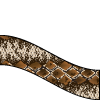
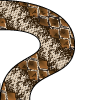
Update graphics and build out corner logic. Create makeCorner function out of isCorner conditional.

diff --git a/css/style.min.css b/css/style.min.css
@@ -1,1 +1,1 @@
-#legend .game_controller button .fa,header{font-size:2rem}*{outline:0}:root{background:#000;color:#fff;font-family:Arial}body{background-color:transparent}header{color:#fff;padding:4px}header .game_buttons{text-align:right}header .game_buttons button{border-radius:100%;height:75px;width:75px;margin:0 0 0 .5rem;padding:0;vertical-align:top;border:none}section{padding:0 20px}.right{-o-transform:rotate(90deg);-ms-transform:rotate(90deg);-webkit-transform:rotate(90deg);transform:rotate(90deg)}.right.flip{-moz-transform:scaleY(-1) rotate(90deg);-o-transform:scaleY(-1) rotate(90deg);-webkit-transform:scaleY(-1) rotate(90deg);transform:scaleY(-1) rotate(90deg);filter:FlipV;-ms-filter:"FlipV"}.down{-o-transform:rotate(180deg);-ms-transform:rotate(180deg);-webkit-transform:rotate(180deg);transform:rotate(180deg)}.down.flip{-moz-transform:scaleX(-1) rotate(180deg);-o-transform:scaleX(-1) rotate(180deg);-webkit-transform:scaleX(-1) rotate(180deg);transform:scaleX(-1) rotate(180deg);filter:FlipH;-ms-filter:"FlipH"}.left{-o-transform:rotate(-90deg);-ms-transform:rotate(-90deg);-webkit-transform:rotate(-90deg);transform:rotate(-90deg)}.left.flip{-moz-transform:scaleY(-1) rotate(-90deg);-o-transform:scaleY(-1) rotate(-90deg);-webkit-transform:scaleY(-1) rotate(-90deg);transform:scaleY(-1) rotate(-90deg);filter:FlipV;-ms-filter:"FlipV"}.up{-o-transform:rotate(0);-ms-transform:rotate(0);-webkit-transform:rotate(0);transform:rotate(0)}.up.flip{-moz-transform:scaleX(-1) rotate(0);-o-transform:scaleX(-1) rotate(0);-webkit-transform:scaleX(-1) rotate(0);transform:scaleX(-1) rotate(0);filter:FlipH;-ms-filter:"FlipH"}.board{box-sizing:content-box;background:green;width:100%;max-width:500px;border:3px double #fff;margin:auto;padding:0}.board .quadrant{box-sizing:border-box;width:4%;height:4%;float:left;margin:0;padding:0;background-size:cover}.board .snake{background:orange;background-size:cover!important}.board .snake.snake-head{background:url(../images/snake-graphics_02.png)}.board .snake.snake-body-1{background:url(../images/snake-graphics_04.png)}.board .snake.snake-body-main{background:url(../images/snake-graphics_07.png)}.board .snake.snake-tail{background:url(../images/snake-graphics_10.png)}.board .snake.snake-corner.main{background:url(../images/snake-graphics_05.png)}.board .snake.snake-corner.out{background:url(../images/snake-graphics_08.png)}.board .snake.snake-corner.tail{background:url(../images/snake-graphics_07.png)}.board .fruit{background:red;border-radius:100%}#legend .game_controller{padding:2rem}#legend .game_controller button{background:#fff;border-radius:10px}#legend .game_controller #down:active,#legend .game_controller #left:active,#legend .game_controller #right:active,#legend .game_controller #up:active,#legend .game_controller .pressed{border-style:inset;background:#D9534F;color:#fff}@media screen and (min-width:768px){.game_buttons button{width:100%;max-width:300px}}@media screen and (max-width:768px){header{font-size:1rem}header .game_buttons button{height:40px;width:40px;border-radius:100%}.game_controller button{height:5rem}}.hidden,ui-loader{display:none}
+#legend .game_controller button .fa,header{font-size:2rem}*{outline:0}:root{background:#000;color:#fff;font-family:Arial}body{background-color:transparent}header{color:#fff;padding:4px}header .game_buttons{text-align:right}header .game_buttons button{border-radius:100%;height:75px;width:75px;margin:0 0 0 .5rem;padding:0;vertical-align:top;border:none}section{padding:0 20px}.flipV{-moz-transform:scaleX(-1);-o-transform:scaleX(-1);-webkit-transform:scaleX(-1);transform:scaleX(-1);filter:FlipV;-ms-filter:"FlipV"}.flipH{-moz-transform:scaleY(-1);-o-transform:scaleY(-1);-webkit-transform:scaleY(-1);transform:scaleY(-1);filter:FlipH;-ms-filter:"FlipH"}.direction.right{-o-transform:rotate(90deg);-ms-transform:rotate(90deg);-webkit-transform:rotate(90deg);transform:rotate(90deg)}.direction.right.flip{-moz-transform:scaleY(-1) rotate(90deg);-o-transform:scaleY(-1) rotate(90deg);-webkit-transform:scaleY(-1) rotate(90deg);transform:scaleY(-1) rotate(90deg);filter:FlipH;-ms-filter:"FlipH"}.direction.down{-o-transform:rotate(180deg);-ms-transform:rotate(180deg);-webkit-transform:rotate(180deg);transform:rotate(180deg)}.direction.down.flip{-moz-transform:scaleX(-1) rotate(180deg);-o-transform:scaleX(-1) rotate(180deg);-webkit-transform:scaleX(-1) rotate(180deg);transform:scaleX(-1) rotate(180deg);filter:flipV;-ms-filter:"FlipV"}.direction.left{-o-transform:rotate(-90deg);-ms-transform:rotate(-90deg);-webkit-transform:rotate(-90deg);transform:rotate(-90deg)}.direction.left.flip{-moz-transform:scaleY(-1) rotate(-90deg);-o-transform:scaleY(-1) rotate(-90deg);-webkit-transform:scaleY(-1) rotate(-90deg);transform:scaleY(-1) rotate(-90deg);filter:FlipH;-ms-filter:"FlipH"}.direction.up{-o-transform:rotate(0);-ms-transform:rotate(0);-webkit-transform:rotate(0);transform:rotate(0)}.direction.up.flip{-moz-transform:scaleX(-1) rotate(0);-o-transform:scaleX(-1) rotate(0);-webkit-transform:scaleX(-1) rotate(0);transform:scaleX(-1) rotate(0);filter:flipV;-ms-filter:"FlipV"}.board{box-sizing:content-box;background:green;width:100%;max-width:500px;border:3px double #fff;margin:auto;padding:0}.board .quadrant{box-sizing:border-box;width:4%;height:4%;float:left;margin:0;padding:0;background-size:cover}.board .snake{background:orange;background-size:cover!important}.board .snake.snake-body-1{background:url(../images/snake-graphics_head-2.png)}.board .snake.snake-body-1.right{-o-transform:rotate(90deg);-ms-transform:rotate(90deg);-webkit-transform:rotate(90deg);transform:rotate(90deg)}.board .snake.snake-body-1.right.flip{-moz-transform:scaleY(-1) rotate(90deg);-o-transform:scaleY(-1) rotate(90deg);-webkit-transform:scaleY(-1) rotate(90deg);transform:scaleY(-1) rotate(90deg);filter:FlipH;-ms-filter:"FlipH"}.board .snake.snake-body-1.down{-o-transform:rotate(180deg);-ms-transform:rotate(180deg);-webkit-transform:rotate(180deg);transform:rotate(180deg)}.board .snake.snake-body-1.down.flip{-moz-transform:scaleX(-1) rotate(180deg);-o-transform:scaleX(-1) rotate(180deg);-webkit-transform:scaleX(-1) rotate(180deg);transform:scaleX(-1) rotate(180deg);filter:flipV;-ms-filter:"FlipV"}.board .snake.snake-body-1.left{-o-transform:rotate(-90deg);-ms-transform:rotate(-90deg);-webkit-transform:rotate(-90deg);transform:rotate(-90deg)}.board .snake.snake-body-1.left.flip{-moz-transform:scaleY(-1) rotate(-90deg);-o-transform:scaleY(-1) rotate(-90deg);-webkit-transform:scaleY(-1) rotate(-90deg);transform:scaleY(-1) rotate(-90deg);filter:FlipH;-ms-filter:"FlipH"}.board .snake.snake-body-1.up{-o-transform:rotate(0);-ms-transform:rotate(0);-webkit-transform:rotate(0);transform:rotate(0)}.board .snake.snake-body-1.up.flip{-moz-transform:scaleX(-1) rotate(0);-o-transform:scaleX(-1) rotate(0);-webkit-transform:scaleX(-1) rotate(0);transform:scaleX(-1) rotate(0);filter:flipV;-ms-filter:"FlipV"}.board .snake.snake-body-main{background:url(../images/snake-graphics_mid.png)}.board .snake.snake-body-main.right{-o-transform:rotate(90deg);-ms-transform:rotate(90deg);-webkit-transform:rotate(90deg);transform:rotate(90deg)}.board .snake.snake-body-main.right.flip{-moz-transform:scaleY(-1) rotate(90deg);-o-transform:scaleY(-1) rotate(90deg);-webkit-transform:scaleY(-1) rotate(90deg);transform:scaleY(-1) rotate(90deg);filter:FlipH;-ms-filter:"FlipH"}.board .snake.snake-body-main.down{-o-transform:rotate(180deg);-ms-transform:rotate(180deg);-webkit-transform:rotate(180deg);transform:rotate(180deg)}.board .snake.snake-body-main.down.flip{-moz-transform:scaleX(-1) rotate(180deg);-o-transform:scaleX(-1) rotate(180deg);-webkit-transform:scaleX(-1) rotate(180deg);transform:scaleX(-1) rotate(180deg);filter:flipV;-ms-filter:"FlipV"}.board .snake.snake-body-main.left{-o-transform:rotate(-90deg);-ms-transform:rotate(-90deg);-webkit-transform:rotate(-90deg);transform:rotate(-90deg)}.board .snake.snake-body-main.left.flip{-moz-transform:scaleY(-1) rotate(-90deg);-o-transform:scaleY(-1) rotate(-90deg);-webkit-transform:scaleY(-1) rotate(-90deg);transform:scaleY(-1) rotate(-90deg);filter:FlipH;-ms-filter:"FlipH"}.board .snake.snake-body-main.up{-o-transform:rotate(0);-ms-transform:rotate(0);-webkit-transform:rotate(0);transform:rotate(0)}.board .snake.snake-body-main.up.flip{-moz-transform:scaleX(-1) rotate(0);-o-transform:scaleX(-1) rotate(0);-webkit-transform:scaleX(-1) rotate(0);transform:scaleX(-1) rotate(0);filter:flipV;-ms-filter:"FlipV"}.board .snake.snake-tail{background:url(../images/snake-graphics_tail.png)}.board .snake.snake-tail.right{-o-transform:rotate(90deg);-ms-transform:rotate(90deg);-webkit-transform:rotate(90deg);transform:rotate(90deg)}.board .snake.snake-tail.right.flip{-moz-transform:scaleY(-1) rotate(90deg);-o-transform:scaleY(-1) rotate(90deg);-webkit-transform:scaleY(-1) rotate(90deg);transform:scaleY(-1) rotate(90deg);filter:FlipH;-ms-filter:"FlipH"}.board .snake.snake-tail.down{-o-transform:rotate(180deg);-ms-transform:rotate(180deg);-webkit-transform:rotate(180deg);transform:rotate(180deg)}.board .snake.snake-tail.down.flip{-moz-transform:scaleX(-1) rotate(180deg);-o-transform:scaleX(-1) rotate(180deg);-webkit-transform:scaleX(-1) rotate(180deg);transform:scaleX(-1) rotate(180deg);filter:flipV;-ms-filter:"FlipV"}.board .snake.snake-tail.left{-o-transform:rotate(-90deg);-ms-transform:rotate(-90deg);-webkit-transform:rotate(-90deg);transform:rotate(-90deg)}.board .snake.snake-tail.left.flip{-moz-transform:scaleY(-1) rotate(-90deg);-o-transform:scaleY(-1) rotate(-90deg);-webkit-transform:scaleY(-1) rotate(-90deg);transform:scaleY(-1) rotate(-90deg);filter:FlipH;-ms-filter:"FlipH"}.board .snake.snake-tail.up{-o-transform:rotate(0);-ms-transform:rotate(0);-webkit-transform:rotate(0);transform:rotate(0)}.board .snake.snake-tail.up.flip{-moz-transform:scaleX(-1) rotate(0);-o-transform:scaleX(-1) rotate(0);-webkit-transform:scaleX(-1) rotate(0);transform:scaleX(-1) rotate(0);filter:flipV;-ms-filter:"FlipV"}.board .snake.snake-corner{background:url(../images/snake-graphics_corner-1.png)}.board .snake.snake-corner.left-corner{-o-transform:rotate(0);-ms-transform:rotate(0);-webkit-transform:rotate(0);transform:rotate(0)}.board .snake.snake-corner.left-corner.flip{-o-transform:rotate(-90deg);-ms-transform:rotate(-90deg);-webkit-transform:rotate(-90deg);transform:rotate(-90deg)}.board .snake.snake-corner.left-corner.flip.flip{-moz-transform:scaleX(-1) rotate(-90deg);-o-transform:scaleX(-1) rotate(-90deg);-webkit-transform:scaleX(-1) rotate(-90deg);transform:scaleX(-1) rotate(-90deg);filter:flipV;-ms-filter:"FlipV"}.board .snake.snake-corner.right-corner{-o-transform:rotate(-90deg);-ms-transform:rotate(-90deg);-webkit-transform:rotate(-90deg);transform:rotate(-90deg)}.board .snake.snake-corner.right-corner.flip{-moz-transform:scaleX(-1);-o-transform:scaleX(-1);-webkit-transform:scaleX(-1);transform:scaleX(-1);filter:FlipV;-ms-filter:"FlipV"}.board .snake.snake-corner.down-right-corner{-o-transform:rotate(180deg);-ms-transform:rotate(180deg);-webkit-transform:rotate(180deg);transform:rotate(180deg)}.board .snake.snake-corner.down-right-corner.flip{-o-transform:rotate(90deg);-ms-transform:rotate(90deg);-webkit-transform:rotate(90deg);transform:rotate(90deg)}.board .snake.snake-corner.down-right-corner.flip.flip{-moz-transform:scaleX(-1) rotate(90deg);-o-transform:scaleX(-1) rotate(90deg);-webkit-transform:scaleX(-1) rotate(90deg);transform:scaleX(-1) rotate(90deg);filter:flipV;-ms-filter:"FlipV"}.board .snake.snake-corner.down-left-corner{-o-transform:rotate(90deg);-ms-transform:rotate(90deg);-webkit-transform:rotate(90deg);transform:rotate(90deg)}.board .snake.snake-corner.down-left-corner.flip{-moz-transform:scaleY(-1);-o-transform:scaleY(-1);-webkit-transform:scaleY(-1);transform:scaleY(-1);filter:FlipH;-ms-filter:"FlipH"}.board .snake.snake-head{background:url(../images/snake-graphics_head.png)}.board .snake.snake-head.right{-o-transform:rotate(90deg);-ms-transform:rotate(90deg);-webkit-transform:rotate(90deg);transform:rotate(90deg)}.board .snake.snake-head.right.flip{-moz-transform:scaleY(-1) rotate(90deg);-o-transform:scaleY(-1) rotate(90deg);-webkit-transform:scaleY(-1) rotate(90deg);transform:scaleY(-1) rotate(90deg);filter:FlipH;-ms-filter:"FlipH"}.board .snake.snake-head.down{-o-transform:rotate(180deg);-ms-transform:rotate(180deg);-webkit-transform:rotate(180deg);transform:rotate(180deg)}.board .snake.snake-head.down.flip{-moz-transform:scaleX(-1) rotate(180deg);-o-transform:scaleX(-1) rotate(180deg);-webkit-transform:scaleX(-1) rotate(180deg);transform:scaleX(-1) rotate(180deg);filter:flipV;-ms-filter:"FlipV"}.board .snake.snake-head.left{-o-transform:rotate(-90deg);-ms-transform:rotate(-90deg);-webkit-transform:rotate(-90deg);transform:rotate(-90deg)}.board .snake.snake-head.left.flip{-moz-transform:scaleY(-1) rotate(-90deg);-o-transform:scaleY(-1) rotate(-90deg);-webkit-transform:scaleY(-1) rotate(-90deg);transform:scaleY(-1) rotate(-90deg);filter:FlipH;-ms-filter:"FlipH"}.board .snake.snake-head.up{-o-transform:rotate(0);-ms-transform:rotate(0);-webkit-transform:rotate(0);transform:rotate(0)}.board .snake.snake-head.up.flip{-moz-transform:scaleX(-1) rotate(0);-o-transform:scaleX(-1) rotate(0);-webkit-transform:scaleX(-1) rotate(0);transform:scaleX(-1) rotate(0);filter:flipV;-ms-filter:"FlipV"}.board .snake.alternate-head,.board .snake.alternate-head.flip{background:url(../images/snake-graphics-turning-head.png)}.board .fruit{background:red;border-radius:100%}#legend .game_controller{padding:2rem}#legend .game_controller button{background:#fff;border-radius:10px}#legend .game_controller #down:active,#legend .game_controller #left:active,#legend .game_controller #right:active,#legend .game_controller #up:active,#legend .game_controller .pressed{border-style:inset;background:#D9534F;color:#fff}@media screen and (min-width:768px){.game_buttons button{width:100%;max-width:300px}}@media screen and (max-width:768px){header{font-size:1rem}header .game_buttons button{height:40px;width:40px;border-radius:100%}.game_controller button{height:5rem}}.hidden,ui-loader{display:none}

diff --git a/js/script.min.js b/js/script.min.js
@@ -1,4 +1,4 @@
 /*
- snake-game 2016-02-29 
+ snake-game 2016-03-08 
 */
-function quad(a){return $("[data-xcoord="+a[0]+"][data-ycoord="+a[1]+"]")}function makeFruits(){var a=Math.floor(Math.random()*(bd-1-0))+1,b=Math.floor(Math.random()*(bd-1-0))+1;quad([a,b]).addClass("fruit"),console.log("New Fruit: "+a+","+b)}function setup(){$(".board").html(""),$(".board").css("height",$(".board").width()),score=0,$("#score").text(score),paused=!0,direction="right",snake=[[~~(bd/2)-3,~~(bd/2)],[~~(bd/2)-2,~~(bd/2)],[~~(bd/2)-1,~~(bd/2)],[~~(bd/2),~~(bd/2)]],head=snake.length-1;for(var a=0;bd>a;a++)for(var b=0;bd>b;b++)$(".board").append('<div class="quadrant" data-xcoord="'+b+'" data-ycoord="'+a+'"></div>');makeFruits(),quad(snake[head]).addClass("snake snake-head").addClass(direction),quad(snake[head-1]).addClass("snake snake-body-1").addClass(direction),quad(snake[head-2]).addClass("snake snake-body-main").addClass(direction),quad(snake[0]).addClass("snake snake-tail").addClass(direction)}function pauseGame(){paused?(progress_snake(snake),$("#start_stop").text("Pause"),paused=!1):(paused=!0,$("#start_stop").text("Resume"))}function isOver(a){return quad(a).hasClass("snake")?(console.log("Over! Bit its tail! "+a),!0):a[0]>=bd||a[1]>=bd||a[0]<0||a[1]<0?(console.log("Over! Crashed into the wall! "+a),!0):!1}function growSnake(a){snake.push(a),head=snake.length-1}function isFruit(a){return quad(a).hasClass("fruit")?(score++,$("#score").text(score),!0):!1}function progress_snake(a){var b=a[head][0],c=a[head][1],d=[b,c];switch(direction){case"left":d[0]--;break;case"up":d[1]--;break;case"right":d[0]++;break;case"down":d[1]++}var e=setTimeout(function(){if(isOver(d))clearTimeout(e);else{if(isFruit(d))quad(d).removeClass("fruit"),makeFruits(),growSnake(d);else{quad(a[0]).removeClass().addClass("quadrant");for(var b=0;b<a.length-1;b++)a[b]=a[b+1];a[head]=d}quad(a[head]).removeClass().addClass("quadrant snake snake-head").addClass(direction),quad(a[head-1]).hasClass("snake-corner")||quad(a[head-1]).addClass("snake snake-body-1").removeClass("snake-head"),quad(a[head-2]).hasClass("snake-corner")?quad(a[head-2]).addClass("snake snake-body-main").removeClass("snake-body-1").toggleClass("flip"):quad(a[head-2]).addClass("snake snake-body-main").removeClass("snake-body-1").toggleClass("flip"),quad(a[0]).addClass("snake snake-tail").removeClass("snake-body-main").toggleClass("flip"),isFlip&&quad(a[head],a[head-1],a[head-2],a[0]).toggleClass("flip"),isFlip=!isFlip,isCorner&&(console.log(prev_direction+" : "+direction),("up"==prev_direction&&"right"==direction||"left"==prev_direction&&"down"==direction)&&quad(a[head-1]).removeClass().addClass("quadrant snake snake-corner main"),("up"==prev_direction&&"left"==direction||"right"==prev_direction&&"down"==direction)&&(quad(a[head-1]).removeClass().addClass("quadrant snake snake-corner main"),quad(a[head-1]).addClass("right")),("down"==prev_direction&&"right"==direction||"left"==prev_direction&&"up"==direction)&&(quad(a[head-1]).removeClass().addClass("quadrant snake snake-corner main"),quad(a[head-1]).addClass("left")),("down"==prev_direction&&"left"==direction||"right"==prev_direction&&"up"==direction)&&(quad(a[head-1]).removeClass().addClass("quadrant snake snake-corner main"),quad(a[head-1]).addClass("down")),isCorner=!1,prev_direction=direction),prev_direction!=direction&&(isCorner=!0),paused||progress_snake(a)}},100)}function goUp(){"down"!=direction&&(prev_direction=direction,direction="up")}function goDown(){"up"!=direction&&(prev_direction=direction,direction="down")}function goLeft(){"right"!=direction&&(prev_direction=direction,direction="left")}function goRight(){"left"!=direction&&(prev_direction=direction,direction="right")}var direction,snake,head,paused,score,prev_direction,isFlip=!0,isTurn=!1;isCorner=!1;var bd=25;$(document).ready(function(){setup(),window.addEventListener("resize",function(){$(".board").css("height",$(".board").width())},!1),$("#start_stop").on("tap",function(){return"Pause"==$(this).text()?void pauseGame():"Resume"==$(this).text()?void pauseGame():"Start"==$(this).text()?($(this).text("Pause"),paused=!1,void progress_snake(snake)):void 0}),$("#reset").on("tap",function(){$("#start_stop").text("Start"),setup()}),$("#more_frogs").on("tap",function(){makeFruits()}),$("#left").on("tap",function(){goLeft()}),$("#up").on("tap",function(){goUp()}),$("#right").on("tap",function(){goRight()}),$("#down").on("tap",function(){goDown()})}),$(document).keydown(function(a){switch(a.which){case 37:goLeft(),$("#left").addClass("pressed");break;case 38:goUp(),$("#up").addClass("pressed");break;case 39:goRight(),$("#right").addClass("pressed");break;case 40:goDown(),$("#down").addClass("pressed");break;case 80:case 27:case 32:pauseGame();break;default:return}a.preventDefault()}),$(document).keyup(function(a){switch(a.which){case 37:$("#left").removeClass("pressed");break;case 38:$("#up").removeClass("pressed");break;case 39:$("#right").removeClass("pressed");break;case 40:$("#down").removeClass("pressed");break;default:return}a.preventDefault()});
+function quad(a){return $("[data-xcoord="+a[0]+"][data-ycoord="+a[1]+"]")}function makeFruits(){var a=Math.floor(Math.random()*(bd-1-0))+1,b=Math.floor(Math.random()*(bd-1-0))+1;quad([a,b]).addClass("fruit"),console.log("New Fruit: "+a+","+b)}function setup(){$(".board").html(""),$(".board").css("height",$(".board").width()),score=0,$("#score").text(score),paused=!0,direction="right",prev_direction=direction,snake=[[~~(bd/2)-3,~~(bd/2)],[~~(bd/2)-2,~~(bd/2)],[~~(bd/2)-1,~~(bd/2)],[~~(bd/2),~~(bd/2)]],head=snake.length-1;for(var a=0;bd>a;a++)for(var b=0;bd>b;b++)$(".board").append('<div class="quadrant" data-xcoord="'+b+'" data-ycoord="'+a+'"></div>');makeFruits(),quad(snake[head]).addClass("snake snake-head").addClass(direction),quad(snake[head-1]).addClass("snake snake-body-1 flip").addClass(direction),quad(snake[head-2]).addClass("snake snake-body-main flip").addClass(direction),quad(snake[0]).addClass("snake snake-tail flip").addClass(direction)}function pauseGame(){paused?(progress_snake(snake),$("#start_stop").text("Pause"),paused=!1):(paused=!0,$("#start_stop").text("Resume"))}function isOver(a){return quad(a).hasClass("snake")?(console.log("Over! Bit its tail! "+a),!0):a[0]>=bd||a[1]>=bd||a[0]<0||a[1]<0?(console.log("Over! Crashed into the wall! "+a),!0):!1}function growSnake(a){snake.push(a),head=snake.length-1}function makeCorner(a){quad(a).addClass("snake-corner"),console.log(prev_direction+" : "+direction+" "+a),("up"==prev_direction&&"right"==direction||"left"==prev_direction&&"down"==direction)&&quad(a).addClass("right-corner"),("up"==prev_direction&&"left"==direction||"right"==prev_direction&&"down"==direction)&&quad(a).addClass("left-corner"),("down"==prev_direction&&"right"==direction||"left"==prev_direction&&"up"==direction)&&quad(a).addClass("down-right-corner"),("down"==prev_direction&&"left"==direction||"right"==prev_direction&&"up"==direction)&&quad(a).addClass("down-left-corner"),prev_direction=direction}function isFruit(a){return quad(a).hasClass("fruit")?(score++,$("#score").text(score),!0):!1}function progress_snake(a){var b=a[head][0],c=a[head][1],d=[b,c];switch(direction){case"left":d[0]--;break;case"up":d[1]--;break;case"right":d[0]++;break;case"down":d[1]++}var e=setTimeout(function(){if(isOver(d))clearTimeout(e);else{if(isFruit(d))quad(d).removeClass("fruit"),makeFruits(),growSnake(d);else{quad(a[0]).removeClass().addClass("quadrant");for(var b=0;b<a.length-1;b++)a[b]=a[b+1];a[head]=d}quad(a[head]).removeClass().addClass("quadrant snake snake-head").addClass(direction),prev_direction!=direction&&makeCorner(a[head]),isFlip&&quad(a[head],a[head-1],a[head-2],a[0]).toggleClass("flip"),quad(a[head-1]).hasClass("snake-corner")?(quad(a[head]).addClass("alternate-head"),quad(a[head-1]).removeClass("snake-head")):quad(a[head-1]).addClass("snake snake-body-1").removeClass("snake-head"),quad(a[head-2]).hasClass("snake-corner")?quad(a[head-1]).removeClass("alternate-head"):quad(a[head-2]).addClass("snake snake-body-main").removeClass("snake-body-1").toggleClass("flip"),quad(a[0]).hasClass("snake-corner")?quad(a[0]).addClass("snake snake-tail").removeClass("snake-body-main snake-corner"):quad(a[0]).addClass("snake snake-tail").removeClass("snake-body-main snake-corner").toggleClass("flip"),isFlip=!isFlip,paused||progress_snake(a)}},100)}function goUp(){"down"!=direction&&(prev_direction=direction,direction="up")}function goDown(){"up"!=direction&&(prev_direction=direction,direction="down")}function goLeft(){"right"!=direction&&(prev_direction=direction,direction="left")}function goRight(){"left"!=direction&&(prev_direction=direction,direction="right")}var direction,snake,head,paused,score,prev_direction,isFlip=!0,isTurn=!1;isCorner=!1;var bd=25;$(document).ready(function(){setup(),window.addEventListener("resize",function(){$(".board").css("height",$(".board").width())},!1),$("#start_stop").on("tap",function(){return"Pause"==$(this).text()?void pauseGame():"Resume"==$(this).text()?void pauseGame():"Start"==$(this).text()?($(this).text("Pause"),paused=!1,void progress_snake(snake)):void 0}),$("#reset").on("tap",function(){$("#start_stop").text("Start"),setup()}),$("#more_frogs").on("tap",function(){makeFruits()}),$("#left").on("tap",function(){goLeft()}),$("#up").on("tap",function(){goUp()}),$("#right").on("tap",function(){goRight()}),$("#down").on("tap",function(){goDown()})}),$(document).keydown(function(a){switch(a.which){case 37:goLeft(),$("#left").addClass("pressed");break;case 38:goUp(),$("#up").addClass("pressed");break;case 39:goRight(),$("#right").addClass("pressed");break;case 40:goDown(),$("#down").addClass("pressed");break;case 80:case 27:case 32:pauseGame();break;default:return}a.preventDefault()}),$(document).keyup(function(a){switch(a.which){case 37:$("#left").removeClass("pressed");break;case 38:$("#up").removeClass("pressed");break;case 39:$("#right").removeClass("pressed");break;case 40:$("#down").removeClass("pressed");break;default:return}a.preventDefault()});
